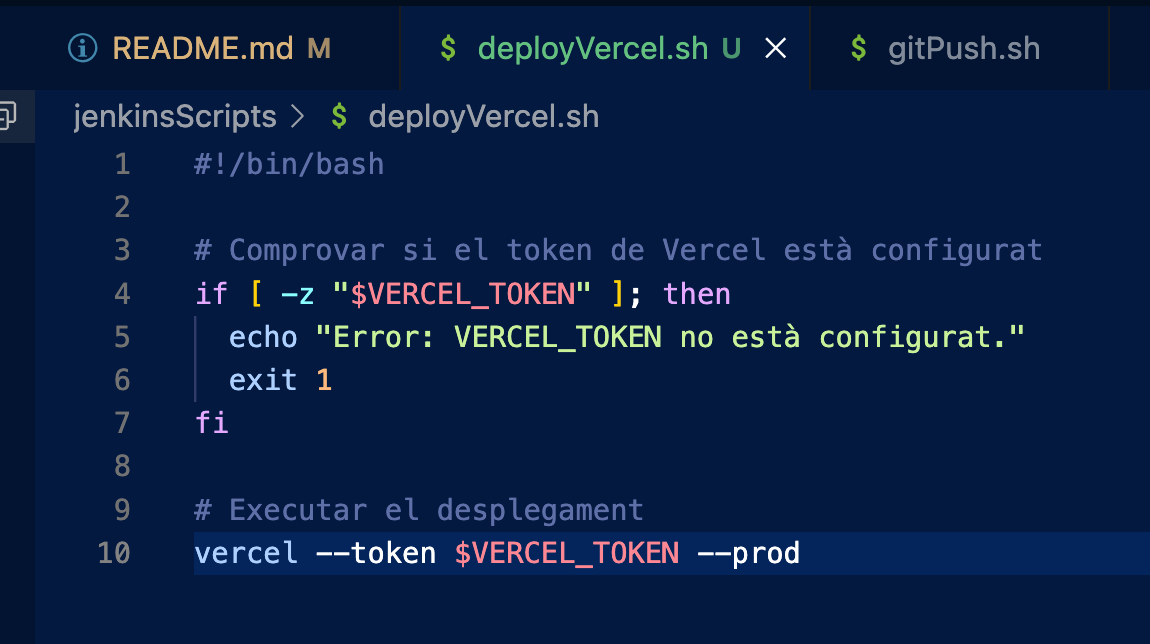
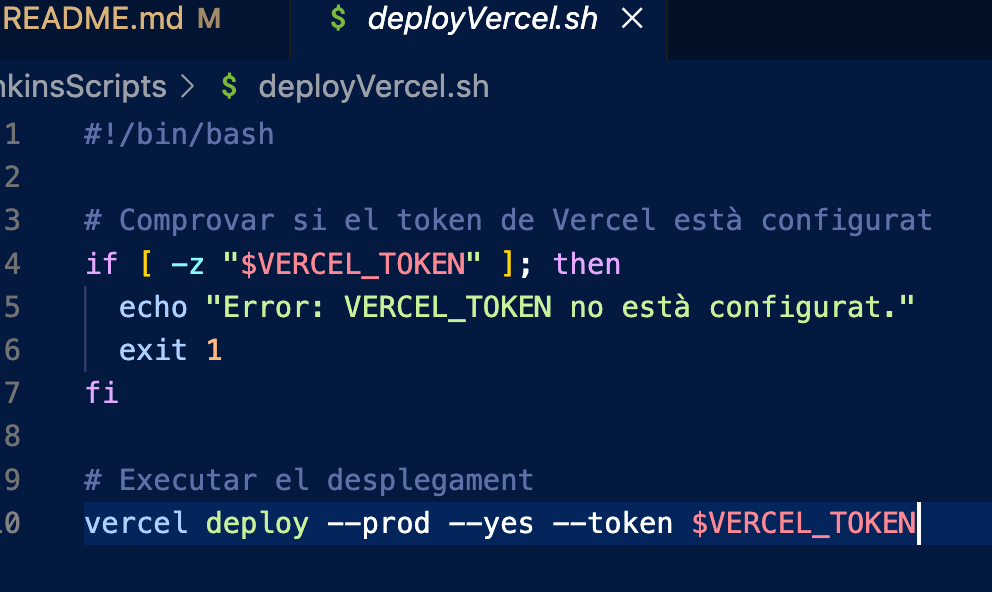
deploy fin

diff --git a/README.md b/README.md
@@ -148,6 +148,39 @@ Fem un commit i comprovem en el pipeline de Jenkins
 
 #### Deploy Vercel
 
+Comencem creant un token a vercel per a que jenkins tinga permisos per a desplegar
+![](capturas/vercel/vercel_token.png)
+
+Guardem el token en una credencial global, per poder utilitzar-la en els pipelines de Jenkins
+![](capturas/vercel/credencial.png)
+
+Vinculem el projecte amb vercel, perque cree `.vercel/project.json` amb les caracteristiques del projecte
+![](capturas/vercel/link.png)
+
+Arxiu project.json
+![](capturas/vercel/vercel_json.png)
+
+Passem al projecte en si, primer creem el arxiu deployVercel.sh dins de /jenkinsScripts amb el seguent contingut:
+
+- Si no se li passa el token de vercel, retorna un error
+- En cas contrari, fa el deploy del projecte
+  ![](capturas/vercel/script.png)
+
+Canviem permisos del arxiu que conté el script, per a la maquina de Jenkins
+![](capturas/vercel/chmod.png)
+
+Creem una nova stage dins del jenkinsFile.
+
+- S'executa si totes les demes stages han acabat be (succesfull)
+- Primer instala el cli de vercel en la máquina de Jenkins
+- Despres executa el script anteriorment creat amb el token de Vercel com a credencial global
+  ![](capturas/vercel/stage.png)
+
+Fem el commit i comprovem els logs del pipeline
+![](capturas/vercel/ok.png)
+
+Finalment, naveguem al deploy (url mes amigable que es troba en el dashboard)
+![](capturas/vercel/deploy.png)
 
 #### Notificació
 
